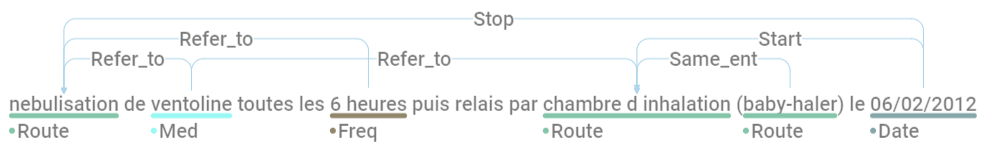
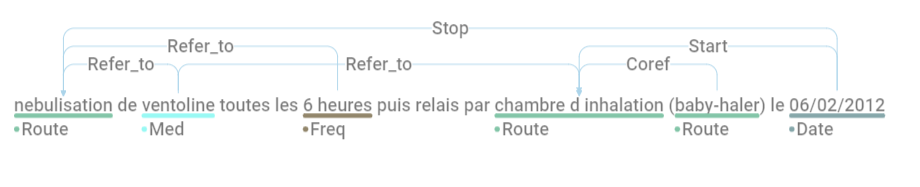
correction exemples

diff --git a/README.md b/README.md
@@ -1,4 +1,6 @@
 
+[//]: # Amox/ Acide clavulanique : Same ent ou tout en un? Je penche sur le faite que ça importe peu -> comparaison au niveau de la frame
+
 
 
 # Guide d'annotation
@@ -328,7 +330,7 @@ Les informations numériques et/ou textuelles qui marquent la quantité et l'uni
   - 3 boîtes
   - dans *doliprane 1 dose poids\*4/ jour si douleurs (paracetamol 1 boite)*
     - **"Dosage"** : *1 dose poids*
-    - ne pas annoter : *1 boite*
+    - annoter *1 boite* mais ne pas mettre de relation car unité de délivrance
 
 ## Commnent annoter ?
 
@@ -849,6 +851,8 @@ S'il y a plusieurs prescriptions (en terme de temporalité) pour un même évene
 
 <img src="examples/exemple2.PNG" width="1000px">
 
+
+
 #### 3 : 
 
 - *il a été explique aux parents d’utiliser l oxygène en cas d’inconfort, de pâleur ou de gene respiratoire et non en fonction d’un chiffre de saturation*
@@ -857,6 +861,7 @@ S'il y a plusieurs prescriptions (en terme de temporalité) pour un même évene
  - relations :
   - *en cas d’inconfort, [...] d’un chiffre de saturation* --> *oxygène* : **"Refer_to"**
 
+[//]: # ( Ne faut-il pas modifier pour mettre 3 entités reliés par un same_ent?)
 
 <img src="examples/exemple5.PNG" width="1000px">
 
@@ -1042,16 +1047,24 @@ Ici le *1 boite* ne correspond pas à une dose de médicaments, mais une dose de
     - **"Med"** : *novorapid(3)*
     - **"Dosage"** : *15 ui*
     - **"Med"** : *levemir(2)*
+    - **"Freq"** : *Matin*
+    - **"Freq"** : *gouter*
+    - **"Freq"** : *soir*
     - relations :
       - *5-7 ui* --> *9-12 ui* : **"Same_ent"**
       - *6-8 ui* --> *5-7 ui* : **"Same_ent"**
       - *5-7 ui* --> *novorapid(1)* : **"Refer_to"**
       - *novorapid(2)* --> *novorapid(1)* : **"Same_ent"**
       - *novorapid(3)* --> *novorapid(1)* : **"Same_ent"**
+      - *Matin* --> *gouter* : **"Same_ent"**
+      - *soir* --> *gouter* : **"Same_ent"**
+      - *gouter* --> *novorapid(1)* : **"Refer_to"**
 
       - *15 ui* --> *20 ui* : **"Same_ent"**
       - *20 ui* --> *levemir(1)* : **"Refer_to"**
       - *levemir(2)* --> *levemir(1)* : **"Same_ent"**
+      - *Matin* --> *soir* : **"Same_ent"**
+      - *soir* --> *levemir(1)* : **"Refer_to"**
 
 
       
